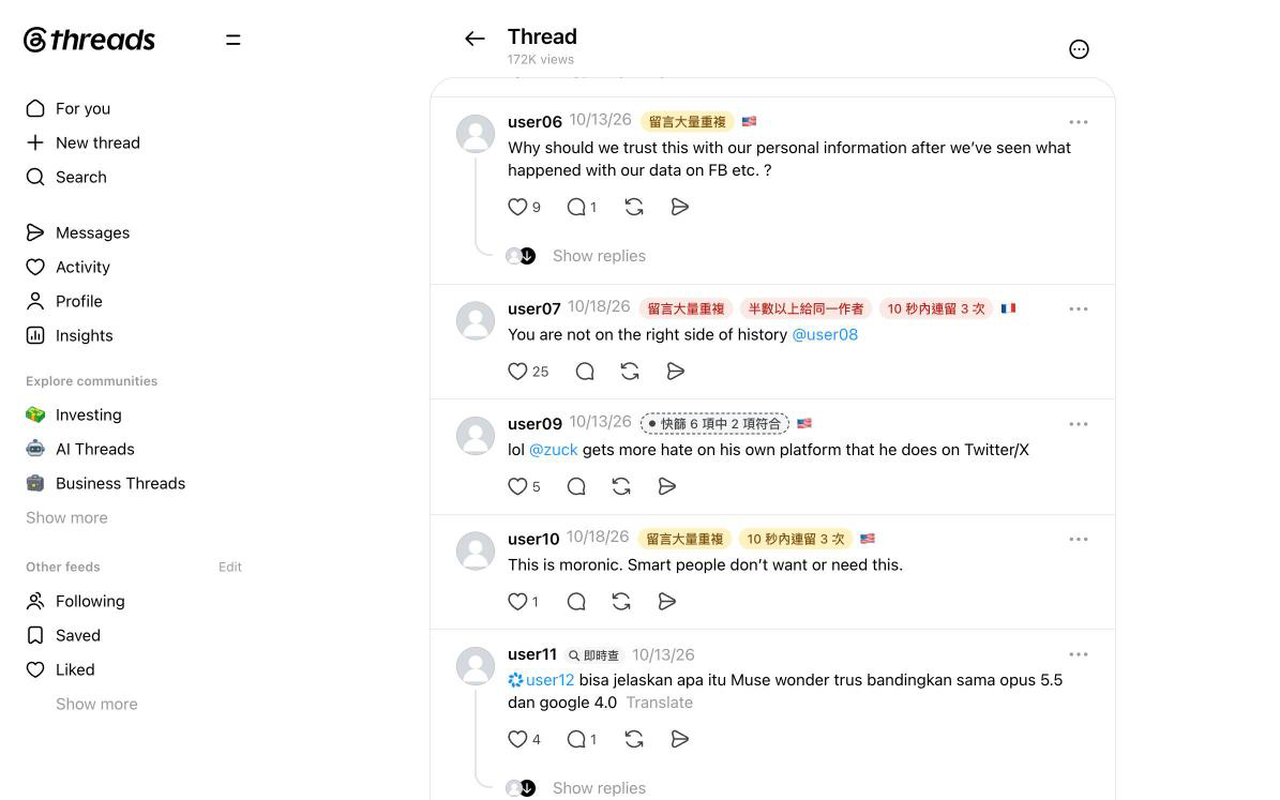
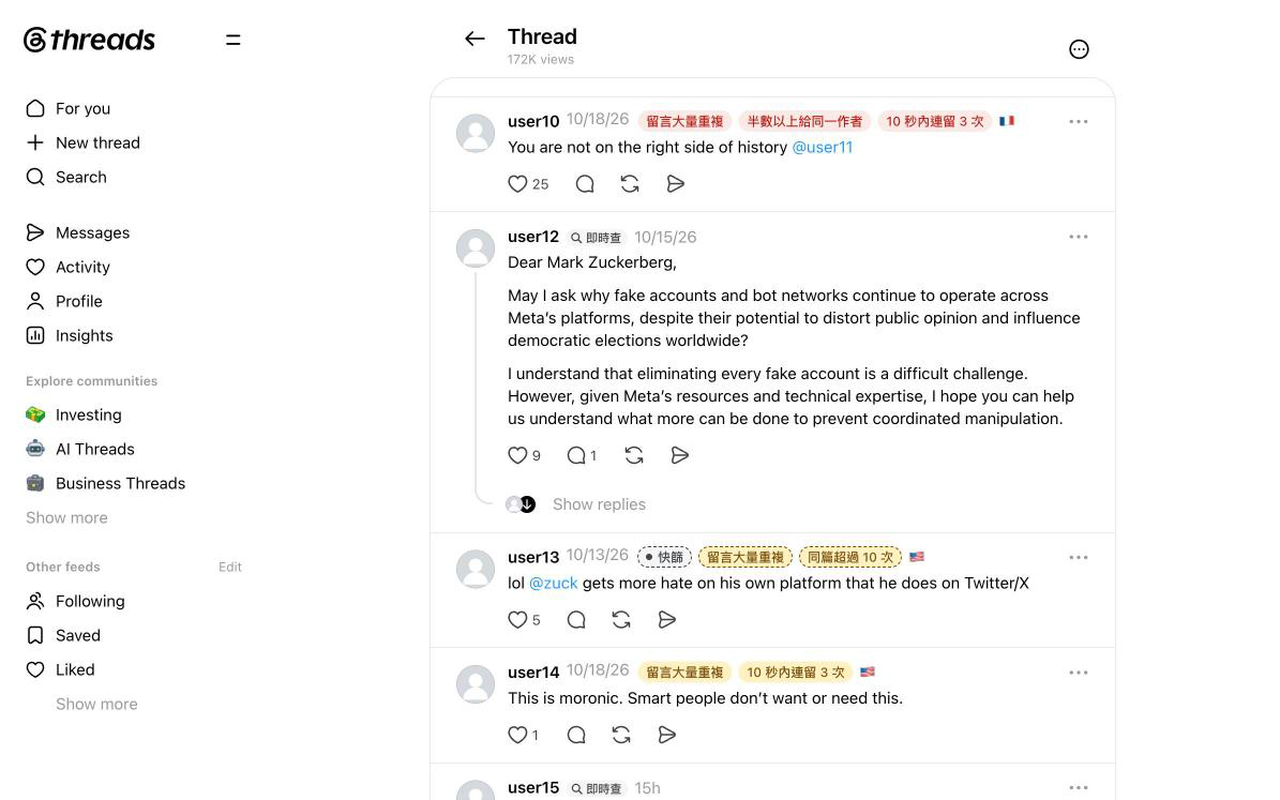
feat(extension): 快篩 shows dashed reason chips; the API address leaves the popup; quiet after a reload
- 快篩 (Felix 10-26): beside the name, a dashed 「快篩」 mark, then the same reason chips as a finished check,
  dashed and in its light red / light yellow; 「快篩 目前沒線索」 when nothing has matched yet. No 「6 項中」.
- Popup: no API address (Felix 10-26: users never need it); README says how to set it from the service worker.
- content.js: after the extension is reloaded, the copy left in an open tab answers storage calls with empty
  values instead of throwing 「Extension context invalidated」.
- Store screenshot 03 retaken with the new 快篩.

Changed region(s): [[0.3438, 0.125, 0.8438, 0.7812], [0.3438, 0.8125, 0.8438, 0.9375], [0.3438, 0.9688, 0.5312, 1.0]]

diff --git a/extension/popup.js b/extension/popup.js
@@ -3,7 +3,7 @@
 // Felix 10-26: status, a three-cell dashboard (已查詢 · 已分析 · 已封鎖), what is left this hour, checking an account;
 // thresholds, the list and the API address fold away. No display-mode choice (always 只標籤), no feature switches
 // (all on), no trust or blocked lists.
-import {mergeSettings,validApiBase,apiBaseOf} from './lib/settings.mjs';
+import {mergeSettings} from './lib/settings.mjs';
 import {HOURLY_LIMIT as LIVE_LIMIT} from './lib/live.mjs';
 import {checkUrl,LAYOUT_CHANGED} from './lib/label.mjs';
 import {listStatus} from './lib/list.mjs';
@@ -28,8 +28,6 @@ function draw({list,pageStats,liveUsage,profiles,profileUsage,profileBreaker,pro
  $('status').textContent=!settings.enabled?'已暫停':health==='broken'?LAYOUT_CHANGED:pageStats?.at&&Date.now()-pageStats.at<6*3600000?'運作中':'開啟 Threads 貼文頁後開始';
  paintMeter('live',meter(liveUsage,LIVE_LIMIT));
  drawProfile({profiles,profileUsage,profileBreaker,profileFlag});
- if(document.activeElement!==$('apiBase'))$('apiBase').value=settings.apiBase;
- $('apiBaseNote').textContent=settings.apiBase?`目前送到 ${apiBaseOf(settings)}（開發用）。頁面上的連結仍開正式站。`:'清單、回報與即時查都送到這裡；只接受 https，或本機的 http://localhost。';
  const status=listStatus(list),n=Array.isArray(list?.accounts)?list.accounts.length:0;
  $('list').textContent=status==='missing'?`清單暫時無法讀取${list?.failure?`（${list.failure}）`:''}`:`${n} 個帳號 · ${fmt(list.fetchedAt)}${status==='stale'?' · 上次更新失敗，用的是舊版':''}`;
 }
@@ -60,7 +58,6 @@ async function save(patch){
  await chrome.storage.sync.set({settings});
 }
 $('enabled').addEventListener('change',e=>save({enabled:e.target.checked}));
-$('apiBaseForm').addEventListener('submit',async e=>{e.preventDefault();const v=validApiBase($('apiBase').value.trim());if(v===null){$('apiBaseNote').textContent='只接受 https://… 或 http://localhost:…，不含路徑。';return;}await save({apiBase:v});chrome.runtime.sendMessage({type:'refreshList'},()=>{void chrome.runtime.lastError;load();});});
 $('refresh').addEventListener('click',()=>{$('list').textContent='更新中…';chrome.runtime.sendMessage({type:'refreshList'},()=>{void chrome.runtime.lastError;load();});});
 $('check').addEventListener('submit',e=>{e.preventDefault();const name=accountFromInputLoose($('username').value);if(!name){$('checkNote').textContent='看不懂這個帳號：只能是英數、底線、句點，最多 30 字，或貼 threads.com 的個人頁連結。';return;}$('checkNote').textContent='會開新分頁並預填帳號，查詢要你自己按。';chrome.tabs.create({url:checkUrl(name)});});
 chrome.storage.onChanged.addListener(()=>load());

diff --git a/extension/content.js b/extension/content.js
@@ -48,6 +48,16 @@
   setCooldownUntil:blockCooldownUntil=>chrome.storage.local.set({blockCooldownUntil}),
   onBlockChange(fn){chrome.storage.onChanged.addListener((changes,area)=>{if(area!=='local')return;const out={};if(changes.blocked)out.blocked=changes.blocked.newValue??{};if(changes.flags)out.flags=changes.flags.newValue??null;if(changes.blockCooldownUntil)out.cooldownUntil=changes.blockCooldownUntil.newValue??0;if(Object.keys(out).length)fn(out);});}
  });
+ // After the extension is reloaded or updated, this copy keeps running in tabs opened before it, and every chrome.*
+ // call throws 「Extension context invalidated」. Answer as if nothing were stored instead; reloading the tab brings
+ // the new copy in.
+ const alive=()=>{try{return !!chrome.runtime?.id;}catch{return false;}};
+ const DEAD={getSettings:null,getTrusted:{},getList:null,getLive:null,getProfiles:{},getBlockState:{blocked:{},flags:null,cooldownUntil:0},getBlocked:{},getFlags:null,getBlockIntent:null};
+ for(const [k,fn] of Object.entries(storage))storage[k]=(...a)=>{
+  const fallback=DEAD[k];
+  if(!alive())return k.startsWith('on')?undefined:Promise.resolve(fallback);
+  try{const r=fn(...a);return r&&typeof r.then==='function'?r.catch(()=>fallback):r;}catch{return k.startsWith('on')?undefined:Promise.resolve(fallback);}
+ };
  const engine=createEngine({storage,runtime});
  await engine.start();
  // A profile tab opened by a 「封鎖 @xx」 press does the clicking; any other page returns at once.

diff --git a/extension/popup.html b/extension/popup.html
@@ -8,7 +8,7 @@
 </head>
 <body>
 <!-- Felix 10-26: status; a three-cell dashboard; what is left this hour (meters after Claude's usage page); checking an
-     account. The list and the API address fold away; the chip thresholds have no UI (Felix 10-26). No mode choice, no switches, no trust or blocked lists. -->
+     account. The list folds away; the chip thresholds and the API address have no UI (Felix 10-26). No mode choice, no switches, no trust or blocked lists. -->
 <header class="row head">
  <span class="light" id="light" aria-hidden="true"></span>
  <div class="grow"><strong>Whospost 留言線索</strong><div class="muted small" id="status">讀取中</div></div>
@@ -47,9 +47,6 @@
  <summary>進階設定</summary>
  <h3>清單</h3>
  <div class="row"><span class="muted grow" id="list">尚未下載</span><button type="button" id="refresh" class="btn">立即更新</button></div>
- <h3>API 位址</h3>
- <form id="apiBaseForm" class="row"><input type="text" id="apiBase" class="grow" placeholder="留空＝正式站" aria-label="API 位址" autocomplete="off" spellcheck="false"><button type="submit" class="btn">套用</button></form>
- <p class="muted small" id="apiBaseNote">只接受 https，或本機的 http://localhost。</p>
 </details>
 
 <footer class="muted small">

diff --git a/extension/README.md b/extension/README.md
@@ -6,7 +6,7 @@
 |---|---|---|---|
 | **Whospost 查詢結果** | 整份雜湊清單 `GET /api/list/v1/export/threads-accounts.json`，約每小時下載一次存在本機，比對在記憶體 | 每小時一個請求，不帶 cookie，不送任何帳號資訊 | ≥3 項（`fadeAt`）：淡紅原因晶片；1–2 項：淡黃原因晶片；0 項：不標，也不給即時查（已有人查過）。收起／變淡的程式還在引擎裡（`mode:'collapse'|'fade'`），但沒有介面，e2e 用 storage 切過去測 |
 | **本串觀察** | 只讀眼前已載入的回覆，本機計算 | 否 | 同帳號 ≥5 則：灰藍晶片「本串 N 則」；相同內容 ≥3 個帳號：晶片。**本串的標記只掛在該帳號在本串的第一則**（頁面順序最前的那則），後面同帳號的回覆不再重複出現晶片（Felix 10-23） |
-| **即時查**（P2.5，規格 §4.3 路 B） | 沒在清單裡的帳號（清單上的帳號、含 0 項的，一律不給即時查：別人查過的結果每小時隨清單發給所有人，最多約兩小時延遲），使用者按了「即時查」才由擴充套件向 Whospost 後端 `POST /api/scans`（免 Turnstile：後端認這個擴充套件的 origin，`WHOSPOST_EXTENSION_IDS`；Origin 是客戶端自己填的，所以這條通道另有跨所有 IP 的全域上限 `EXT_SCAN_RATE_LIMITER`，每分鐘 5 次、只算真的會起跑的新查詢（已存結果、進行中的查詢不扣），超過回 429「即時查太頻繁，請稍後再試。」，擴充套件當一般失敗、可再試一次；沒綁 limiter 就是關閉），再輪詢 `GET /api/scans/:id` | 只在按下時送出那一個帳號名稱；每個安裝每小時最多 10 次（本機計數） | 晶片三態：**查詢中…**（灰、閃點，不擋滑動）→ **快篩 6 項中 N 項符合**（虛線框；後端只看了貼文與回覆頁第一頁）→ 正式結果（原因晶片，顏色照清單規則）或「查過、沒線索」／「查過、資料不足」；提示列「@xx 查好了」。**失敗＝回到「沒查過」**：沒有晶片、提示列說失敗並給「再試一次」，永遠不會顯示成 0 項 |
+| **即時查**（P2.5，規格 §4.3 路 B） | 沒在清單裡的帳號（清單上的帳號、含 0 項的，一律不給即時查：別人查過的結果每小時隨清單發給所有人，最多約兩小時延遲），使用者按了「即時查」才由擴充套件向 Whospost 後端 `POST /api/scans`（免 Turnstile：後端認這個擴充套件的 origin，`WHOSPOST_EXTENSION_IDS`；Origin 是客戶端自己填的，所以這條通道另有跨所有 IP 的全域上限 `EXT_SCAN_RATE_LIMITER`，每分鐘 5 次、只算真的會起跑的新查詢（已存結果、進行中的查詢不扣），超過回 429「即時查太頻繁，請稍後再試。」，擴充套件當一般失敗、可再試一次；沒綁 limiter 就是關閉），再輪詢 `GET /api/scans/:id` | 只在按下時送出那一個帳號名稱；每個安裝每小時最多 10 次（本機計數） | 晶片三態：**查詢中…**（灰、閃點，不擋滑動）→ **快篩**：虛線框的「快篩」標記＋虛線框的原因晶片（淡紅／淡黃照分數；Felix 10-26，原本是「快篩 6 項中 N 項符合」；還沒有命中時是「快篩 目前沒線索」；後端只看了貼文與回覆頁第一頁）→ 正式結果（原因晶片，顏色照清單規則）或「查過、沒線索」／「查過、資料不足」；提示列「@xx 查好了」。**失敗＝回到「沒查過」**：沒有晶片、提示列說失敗並給「再試一次」，永遠不會顯示成 0 項 |
 
 - **名字旁**（Felix 10-24、10-26）：查過的帳號只放**原因晶片**＋**國旗**兩樣。原因晶片是命中規則的短名（`SIGNAL_SHORT`，例如「留言大量重複」），一條規則一顆；顏色是警告色：分數 ≥ `fadeAt`（預設 3）淡紅（`--whospost-warn-red*`），以下淡黃（`--whospost-warn-yellow*`），亮暗主題各一組；點了開浮層；同一行放不下（會換行，或碰到 Threads 的「⋯」）就只留第一顆。「6 項中 N 項符合」那顆不畫；0 分的清單帳號名字旁只剩國旗（或什麼都沒有）。不是分數的狀態晶片照舊：「查詢中…」「快篩 …」「本串 N 則」「N 個帳號貼同一段」。
 - **晶片** 點了開浮層（Felix 10-24 版）：原因晶片放在標題同一行右邊。清單那筆有 `ai.summary` 時，標題只寫「@xx」，下一行直接是 AI 全文（≤200 字，沒有小標）＋小字寫是哪個模型寫的（照清單的 `ai.version`：「Gemini 自動撰寫」、備援時「Claude 自動撰寫」，認不得的模型只寫「AI 自動撰寫」）＋「AI 判斷，僅供參考」；沒有 AI 摘要但有原因晶片時標題也只寫「@xx」（Felix 10-26：晶片就是原因，不再寫「6 項中 N 項符合」），快篩結果寫「@xx · 快篩」；0 分「查過、沒線索」、資料不足「查過、資料不足」，快篩中與本串觀察維持「快篩中，資料還不夠」「本串 N 則」。**不再有一句結論**（原本的「留言像機器在發」等六句已拿掉），同一條規則只用全名（`SIGNAL_LABELS`）與短名（`SIGNAL_SHORT`）兩套字。沒有 AI 摘要就沒有「僅供參考」那句，標題下直接是按鈕。按鈕兩顆：左邊白底黑框「封鎖 @xx」（封鎖助手開著時；見下），右邊黑底「看完整證據」（開正式站分享頁；要引導去看證據）。原本那句「這不是身分判定…」拿掉了。檢查統計與查詢日期、「信任這個帳號」、「申訴或要求刪除」都不在浮層了：統計與申訴在完整證據頁；信任只剩收起列的「都信任」，預設只標籤時看不到。沒查過、只有本串觀察的帳號照舊：本串說明一行＋「即時查」＋「到 Whospost 網站查」。
@@ -31,8 +31,8 @@
 
 1. `chrome://extensions` → 開發人員模式 → 載入未封裝項目 → 選這個 `extension/` 資料夾。
 2. 開任何 `threads.com/@某人/post/…` 頁面（首頁動態不跑），清單上有疑慮的帳號名字旁出現淡紅／淡黃晶片、沒查過的出現「即時查」就是在跑；清單 API 關著時會是一行灰字「清單暫時無法讀取」。
-3. 彈出視窗（Felix 10-26）：狀態燈＋「開啟」總開關、三格儀表板（已查詢／已分析／已封鎖）、「這小時還能用」兩條用量（即時查 N/10、帳號背景 N/60）、查一個帳號；收起的「進階設定」只有清單時間與 API 位址。沒有顯示方式、門檻、選舉模式、功能開關、信任與已封鎖清單；設定照舊存 `chrome.storage.sync`，舊值照樣生效。
-4. 對本機 Worker 開發：彈出視窗「進階設定 → API 位址」填 `http://localhost:8787`（只收 https 或本機 http），清單、回報、申訴、即時查都改送那裡，頁面上的連結仍開正式站。Worker 這邊要用 `npx wrangler dev --var WHOSPOST_EXTENSION_IDS:<未封裝擴充套件的 ID> --var WHOSPOST_LIST_ENABLED:1` 起，ID 在 `chrome://extensions` 看得到；正式站的 `WHOSPOST_EXTENSION_IDS` 沒填＝即時查通道關著（POST 回 403）。
+3. 彈出視窗（Felix 10-26）：狀態燈＋「開啟」總開關、三格儀表板（已查詢／已分析／已封鎖）、「這小時還能用」兩條用量（即時查 N/10、帳號背景 N/60）、查一個帳號；收起的「進階設定」只有清單時間。沒有顯示方式、門檻、API 位址、選舉模式、功能開關、信任與已封鎖清單；設定照舊存 `chrome.storage.sync`，舊值照樣生效。
+4. 對本機 Worker 開發：彈出視窗不再有 API 位址（Felix 10-26：一般使用者用不到）。到 `chrome://extensions` → 這個擴充套件 →「檢查檢視：service worker」的 console 執行 `chrome.storage.sync.get('settings').then(({settings})=>chrome.storage.sync.set({settings:{...settings,apiBase:'http://localhost:8787'}}))`（只收 https 或本機 http，設 `''` 回正式站；e2e 的 `--api` 也是這樣寫 storage），清單、回報、申訴、即時查都改送那裡，頁面上的連結仍開正式站。Worker 這邊要用 `npx wrangler dev --var WHOSPOST_EXTENSION_IDS:<未封裝擴充套件的 ID> --var WHOSPOST_LIST_ENABLED:1` 起，ID 在 `chrome://extensions` 看得到；正式站的 `WHOSPOST_EXTENSION_IDS` 沒填＝即時查通道關著（POST 回 403）。
 
 `lib/signals.mjs` 是 symlink 到 repo 的 `shared/signals.mjs`：正規化（`norm`／`bare`／`common`）與六項規則的名稱跟正式站同一份。Chrome 載入未封裝項目時會跟著 symlink；打包時 `scripts/pack-extension.mjs` 會把它寫成實體檔（見「怎麼打包」）。
 
@@ -56,7 +56,7 @@
 | `lib/block-page.mjs` | 封鎖助手在個人頁那一半：讀指令、跑步驟、頂端一條結果、成功記進已封鎖、重設冷卻 |
 | `lib/flags.mjs` | 正式站的遠端開關（`/api/health` → `extension`）：沒讀到過就算關 |
 | `background.js` | 只做訊息路由：下載清單（`If-None-Match`）、申訴、回報貢獻（累計與送出都在這裡，設定存了 `report:false` 就清掉不送；彈出視窗儀表板的本機累計 `countTotals`）、即時查（`liveStart` 送一次帳號名稱並計數、`livePoll` 只帶 scanId 回狀態）、開彈出視窗；所有請求都送到設定裡的 API 位址 |
-| `popup.html` / `popup.js` / `popup.css` | 彈出視窗：狀態燈＋開啟、三格儀表板（`lib/totals.mjs`）、這小時還能用的兩條用量（`lib/meter.mjs`，仿 Claude 用量頁）、查一個帳號、進階設定（清單時間、API 位址） |
+| `popup.html` / `popup.js` / `popup.css` | 彈出視窗：狀態燈＋開啟、三格儀表板（`lib/totals.mjs`）、這小時還能用的兩條用量（`lib/meter.mjs`，仿 Claude 用量頁）、查一個帳號、進階設定（清單時間） |
 | `icons/icon-{16,48,128}.png` | 工具列與商店圖示（橘色對話泡＋晶片的點），由 `scripts/extension-icons.mjs` 從一個 SVG 畫出來；128 那張同時是商店圖示 |
 | `store/` | 上架包，不進 zip：`listing.zh-TW.md`／`listing.en.md`（商店文案）、`privacy-form.md`（隱私權規範分頁填答稿）、`screenshots/01–05.png`（1280×800）。見「怎麼打包」 |
 

diff --git a/extension/store/screenshots/README.md b/extension/store/screenshots/README.md
@@ -15,7 +15,7 @@
 |---|---|---|---|---|
 | 1 | `01-reason-chips.png` | 名字旁的原因晶片：user05 淡紅「留言大量重複」（4 項，放不下只留第一顆）🇺🇸；user06 淡黃「留言大量重複」🇺🇸；user07 淡紅三顆 🇫🇷；user10 淡黃兩顆 🇺🇸；沒查過的 user09 旁是「即時查」 | Threads 頁面、登入狀態、engine 畫面；國旗是帳號背景真的讀回來的所在地點 | 清單（四個帳號的分數與命中規則） |
 | 2 | `02-chip-popover.png` | 點 user06 的晶片：標題「@user06」＋淡黃晶片、AI 摘要、小字「Claude 自動撰寫」、「AI 判斷，僅供參考」、「封鎖 @user06」「看完整證據」、帳號背景（加入 2023年7月、所在地點 美國） | 同上；帳號背景兩列是真的讀回來的 | AI 摘要文字與它的模型（`claude-sonnet-5-5`） |
-| 3 | `03-live-check.png` | 對沒查過的 user09 按「即時查」後，晶片變虛線框「快篩 6 項中 2 項符合」；user11 旁還是「即時查」 | 同上 | 即時查的回應（不送任何請求到 Whospost） |
+| 3 | `03-live-check.png` | 對沒查過的 user13 按「即時查」後，名字旁出現虛線框的「快篩」標記和兩顆虛線框淡黃原因晶片（還沒查完）；user12、user15 旁還是「即時查」。這張是 10-26 晚上重拍的，Threads 多了一則回覆，遮蔽編號和 1、2、4 不同 | 同上 | 即時查的回應（不送任何請求到 Whospost） |
 | 4 | `04-block-helper.png` | 在 2 按「封鎖 @user06」之後：按鈕變灰「8 秒後才能再封鎖」，底部提示「已開新分頁到 @user06 的個人頁，Whospost 正替你點封鎖」 | 冷卻、提示是 engine 照常做的 | `window.open` 換成空函式，**沒有開分頁、沒有封鎖任何人** |
 | 5 | `05-popup.png` | 彈出視窗：運作中、三格（已查詢 12、已分析 1,486、已封鎖 2）、這小時還能用（即時查 3/10、帳號背景 23/60）、查一個帳號、收起的進階設定；疊在 1 的右上 | 彈出視窗是 Playwright 真的載入 `extension/` 開 `popup.html` 拍的（2 倍解析度縮到 420 寬） | 三格數字與用量是寫進 storage 的示範值；背景頁是 1 加暗；兩張合成 |
 
